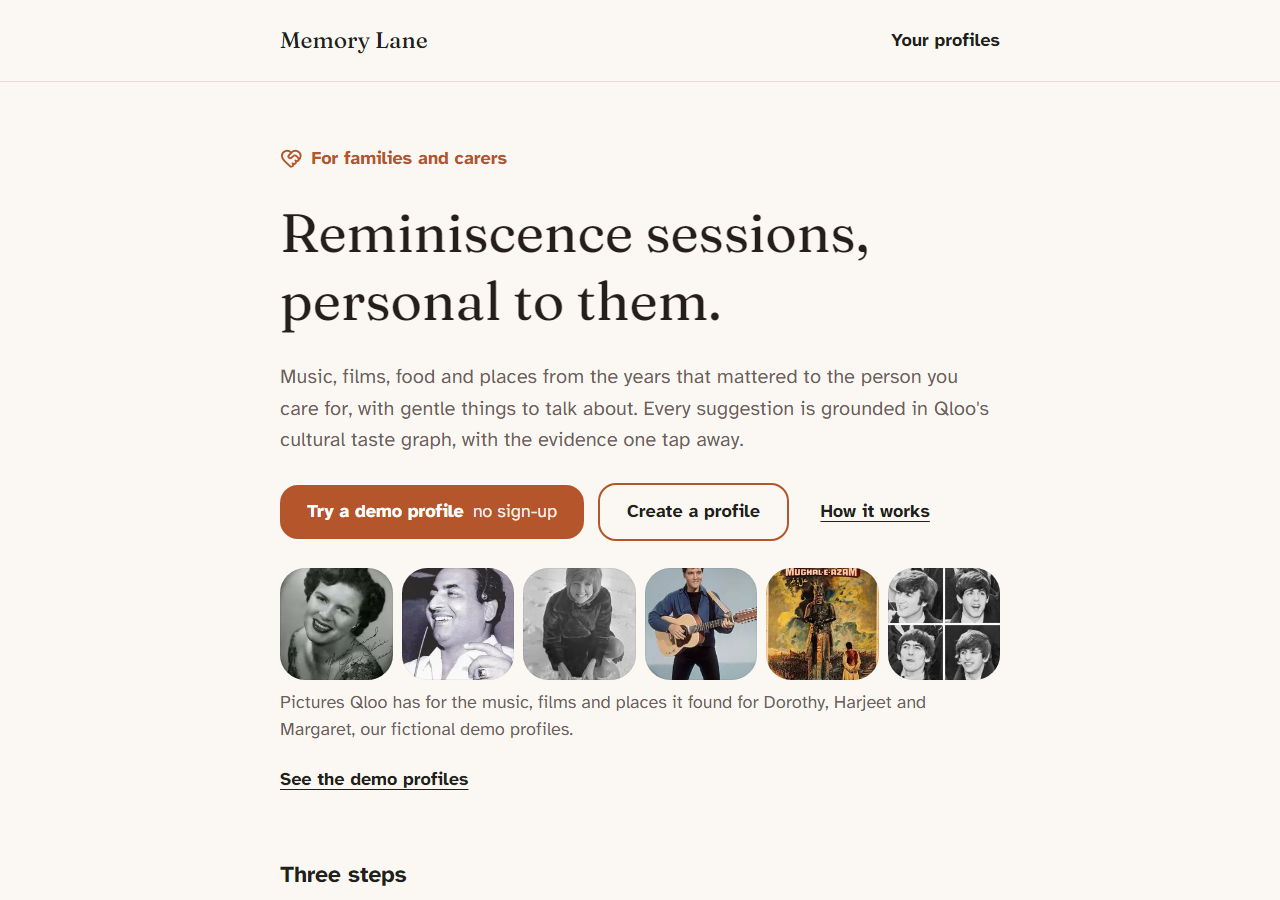
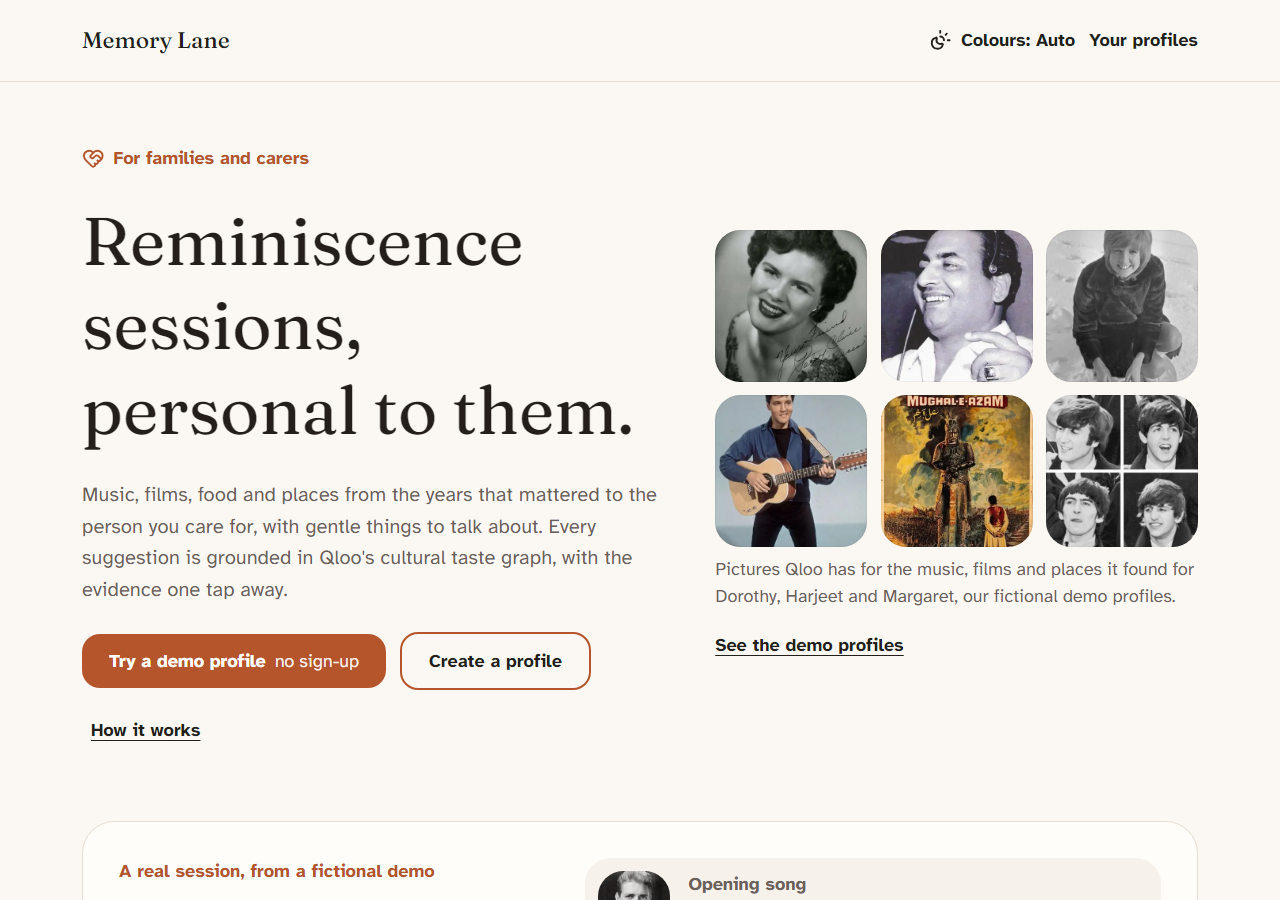
README landing screenshot (two-column hero); progress: wide layouts and colour button

diff --git a/docs/progress.md b/docs/progress.md
@@ -99,6 +99,11 @@ Claude Code: update this file at the end of every phase/session. Newest entries 
 | 2026-10-12 | Pinned mature deps (vitest 5.0.3, zod 4.6.5) instead of bypassing pnpm's minimum-release-age policy | Supply-chain safety | — |
 
 ## Done
+- 2026-10-15: **Wide-screen layouts + colour button (live).** Landing hero in two columns with Qloo's
+  pictures and a real-session preview; demo personas side by side; taste profile and plan with side
+  columns (sticky only when they fit); player with the picture beside the text; header colour button
+  (Auto / Light / Dark, no flash, print always light). UX review: 1 critical + 8 warnings fixed. 201
+  tests (agent 168, shared 17, web 16).
 - 2026-10-15: **Qloo's pictures (demos v12, live).** Artist photos, posters and place pictures from
   Qloo's own answers on the confirm screen, taste cards, plan, player (under the name), summary, demo
   picker and a landing strip; dishes keep their icon; none on compare. One allow-list (agent, shared
